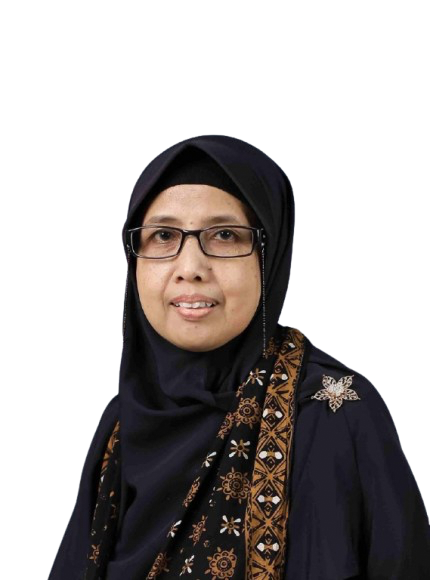
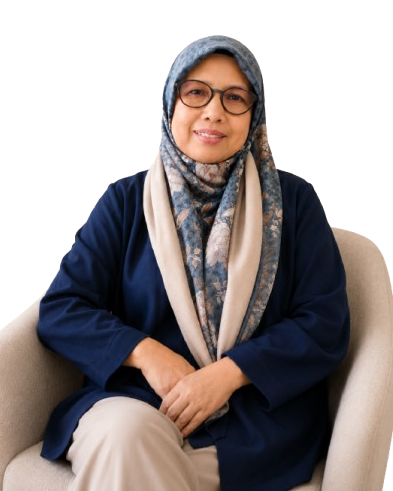
foto konselor 2

diff --git a/app/Controllers/Home.php b/app/Controllers/Home.php
@@ -39,7 +39,7 @@ class Home extends BaseController
 
             $result[] = [
                 'nama' => $nama,
-                'url'  => base_url(rtrim($urlPrefix, '/') . '/' . rawurlencode(basename($file))),
+                'url'  => base_url(rtrim($urlPrefix, '/') . '/' . rawurlencode(basename($file))) . '?v=' . filemtime($file),
             ];
         }
 
